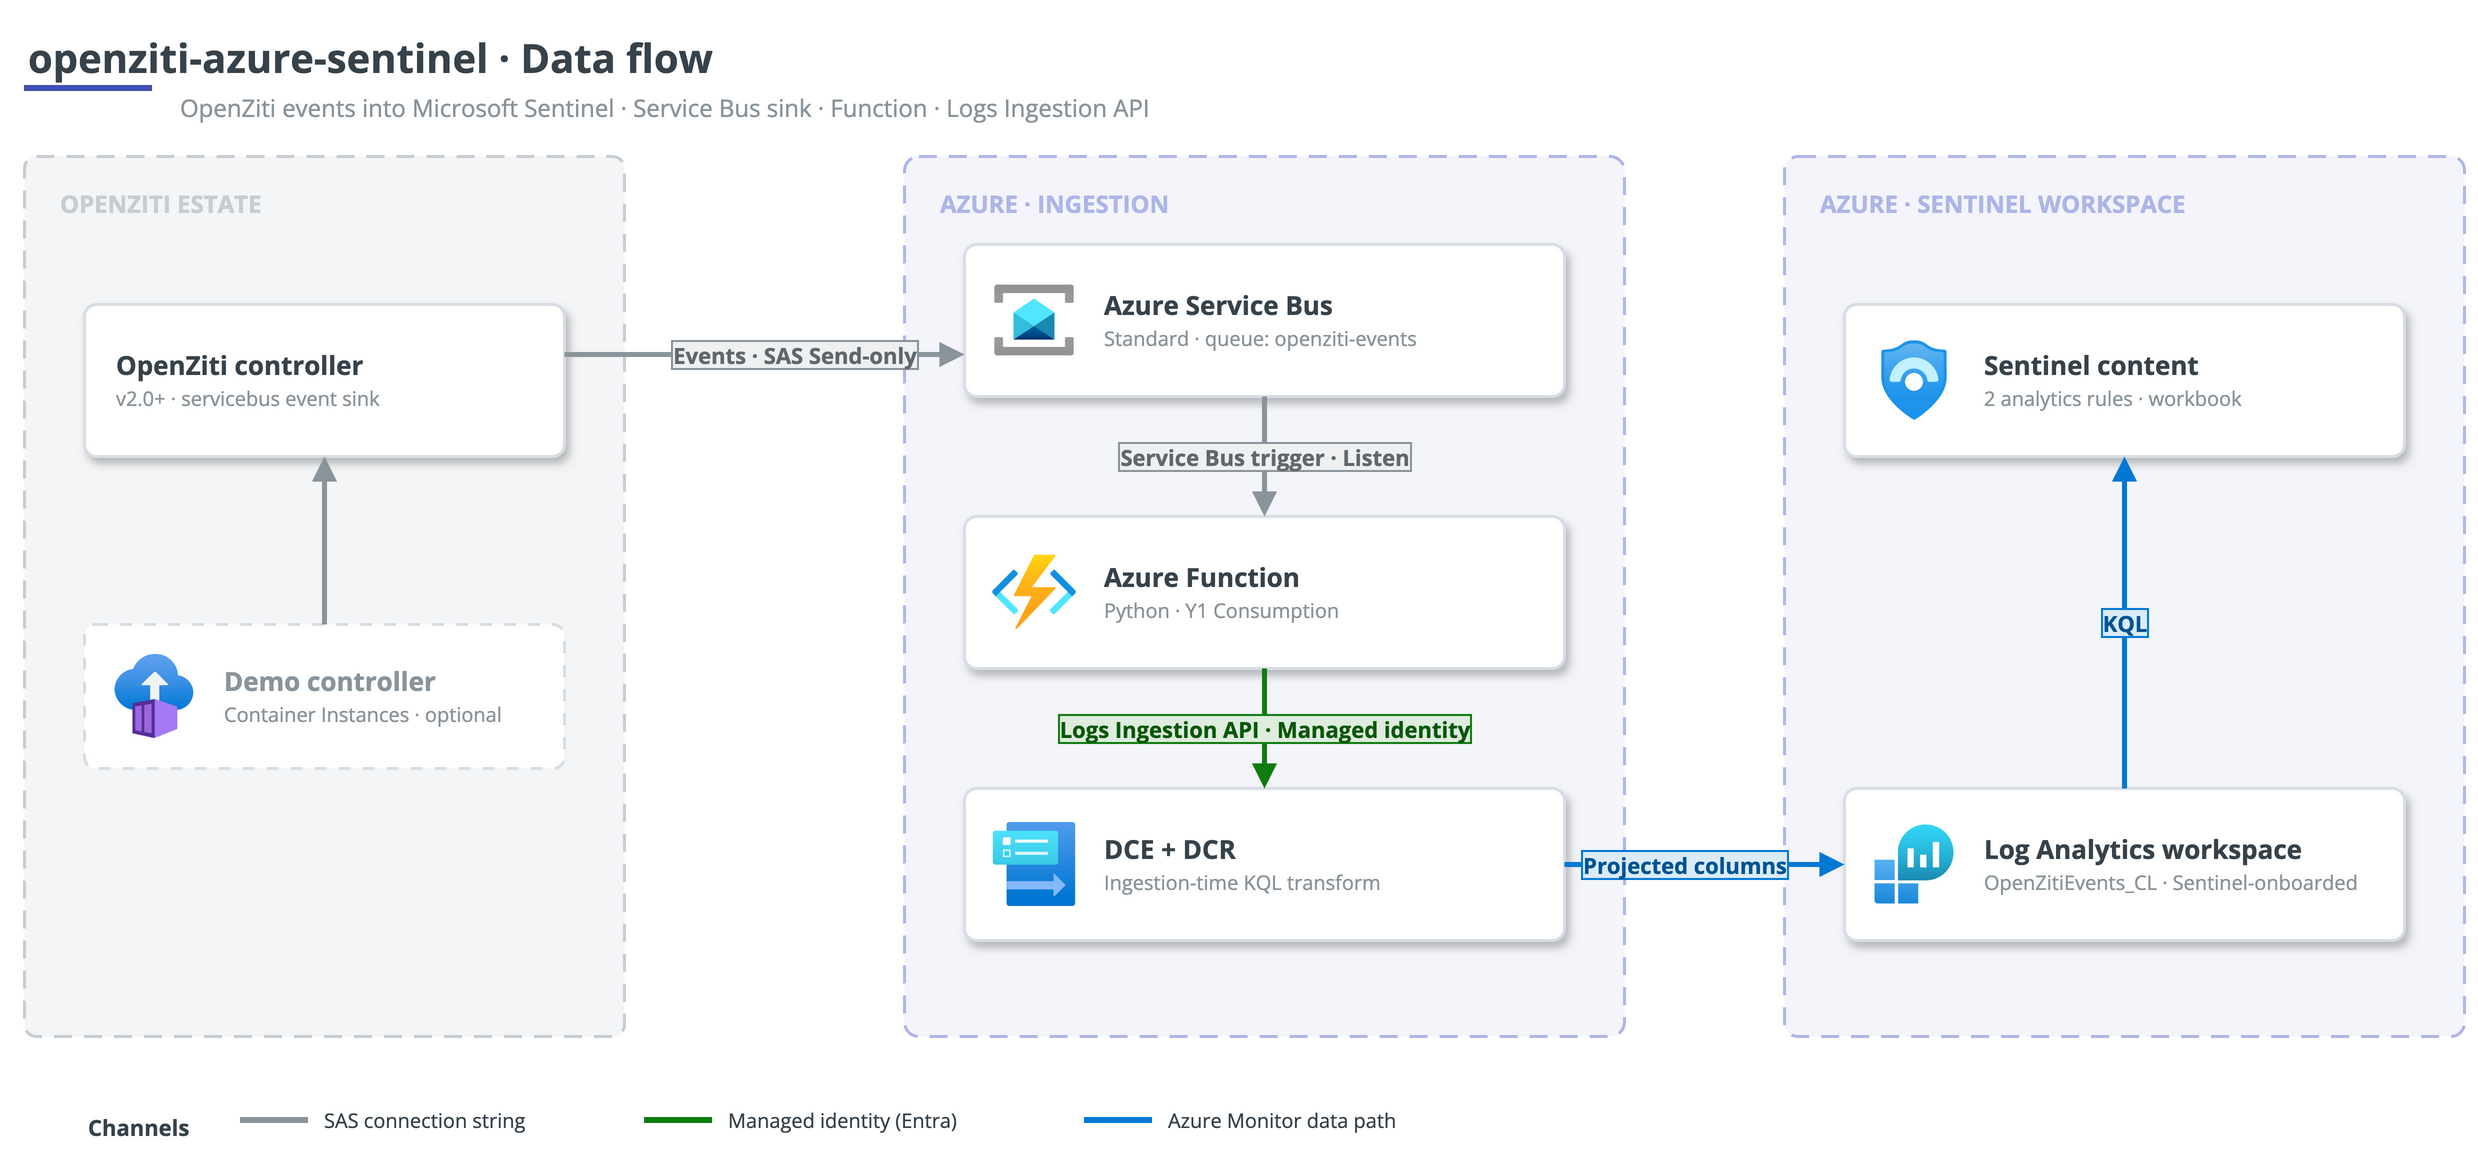
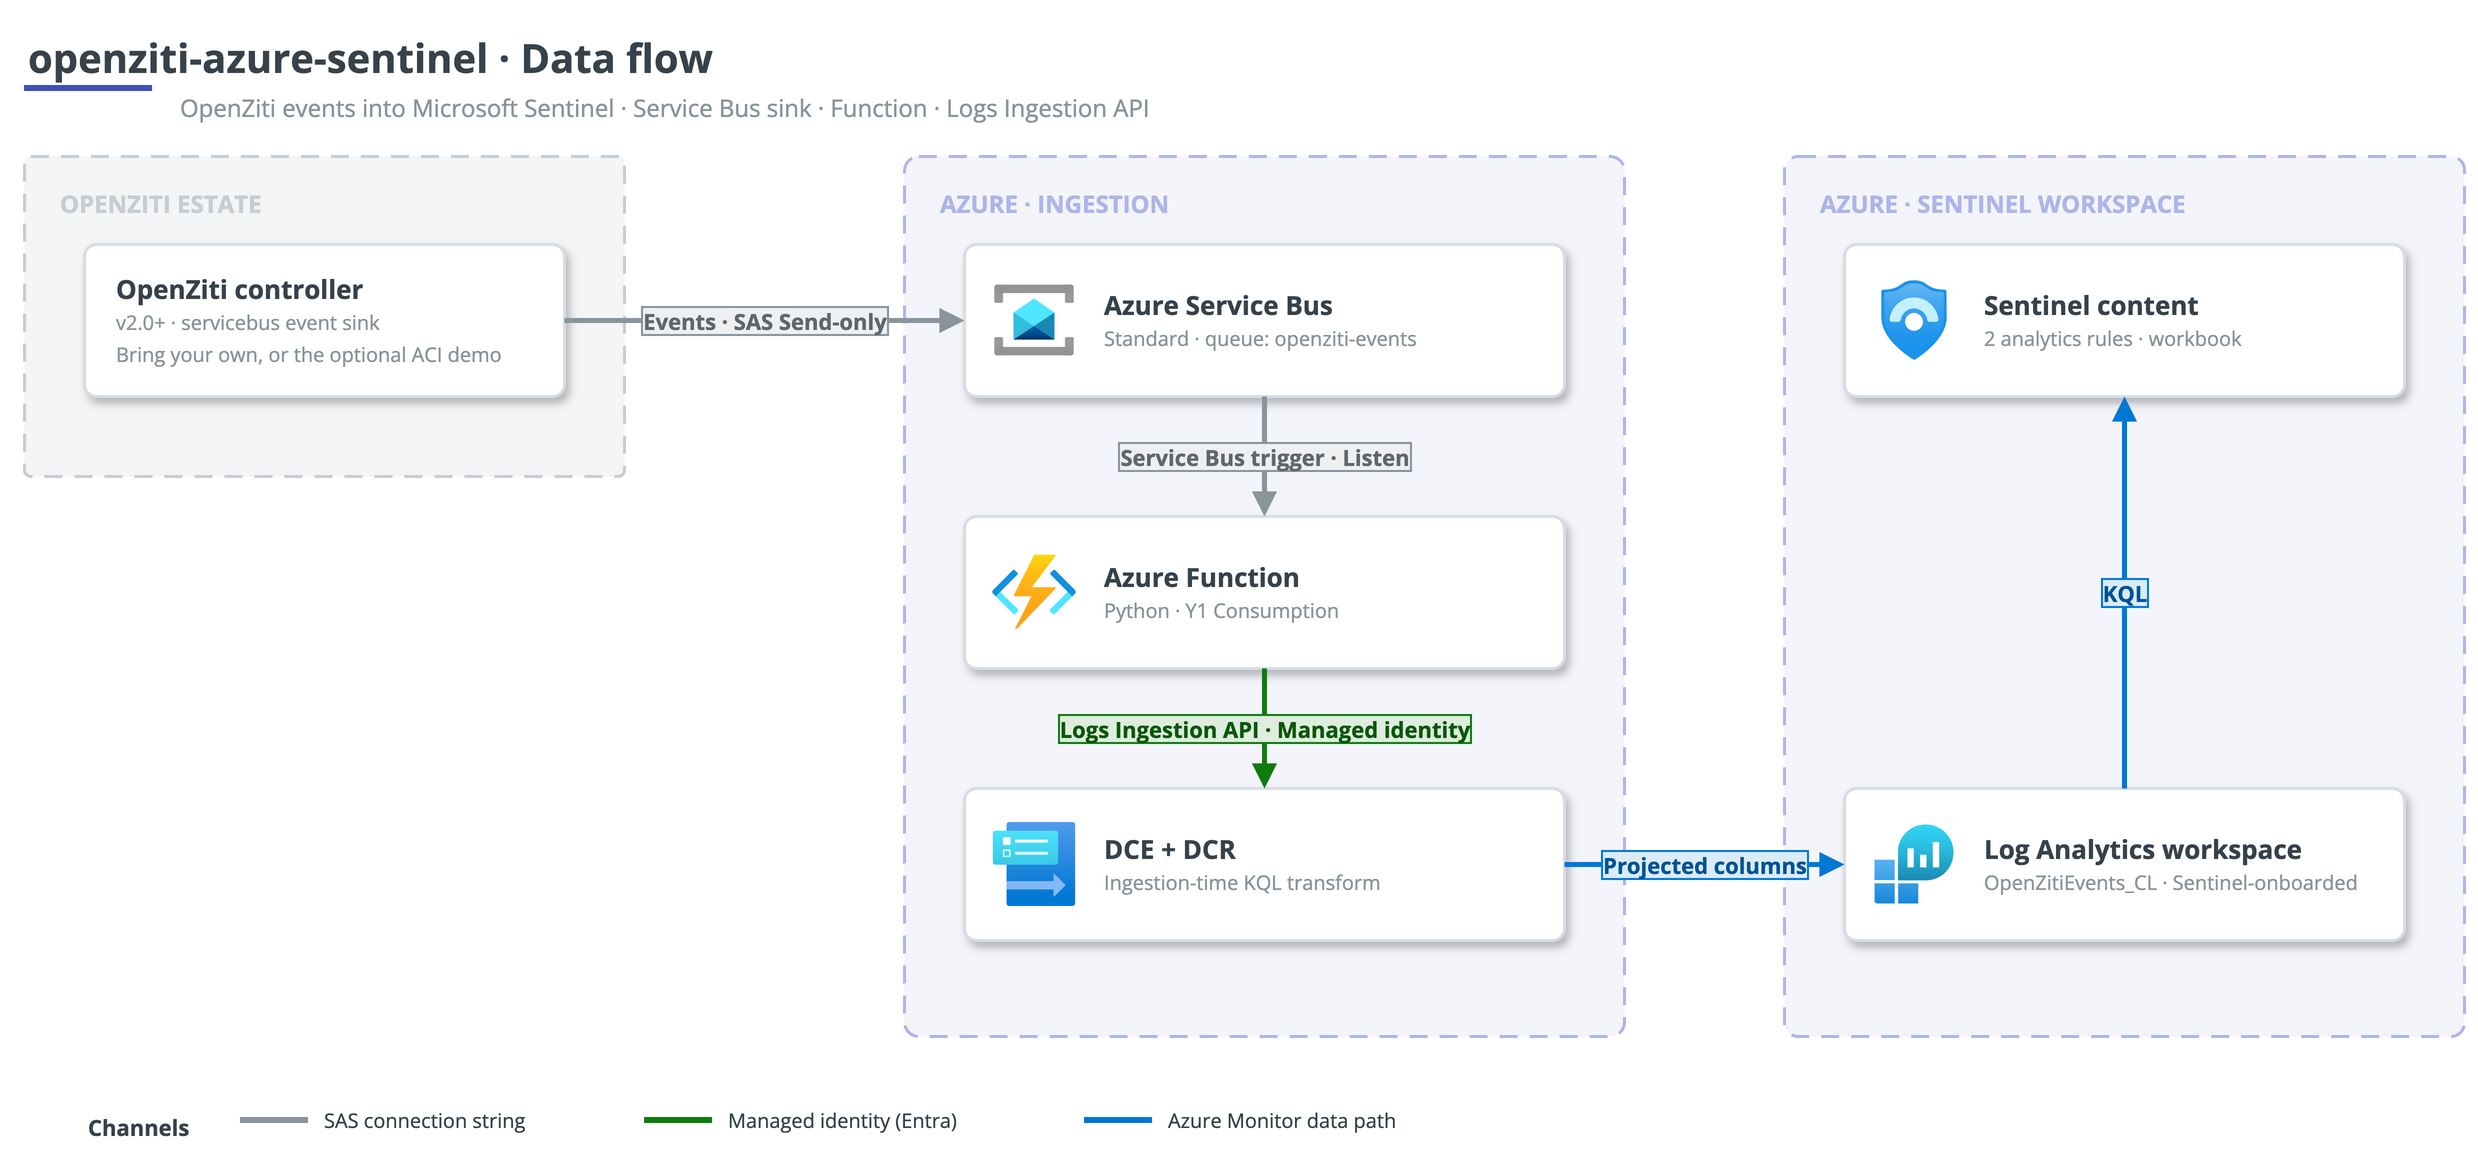
docs: align figure rows, fold demo controller into the controller card
The demo deployment is not a separate component - deploy_demo_controller
stands up the same OpenZiti controller on ACI. Represent it as a sub-line
on the controller card instead of a ghost card feeding it. Snap all cards
to a three-row grid (y=140/276/412) so every edge is one straight run and
the zones read as aligned columns.

Claude-Session: https://claude.ai/code/session_01PYqtjNQenbTQ3nGMfCkX4V

diff --git a/diagrams/build_diagram.py b/diagrams/build_diagram.py
@@ -208,15 +208,17 @@ def data_flow():
         "Logs Ingestion API",
     )
 
-    d.zone(40, 96, 300, 440, "OPENZITI ESTATE", EGRESS_FILL, EGRESS_BORD)
+    # one row grid: cards sit on rows y=140 / 276 / 412 so every edge is a
+    # single straight run and the three zones read as aligned columns
+    d.zone(40, 96, 300, 160, "OPENZITI ESTATE", EGRESS_FILL, EGRESS_BORD)
     d.zone(480, 96, 360, 440, "AZURE  ·  INGESTION", ZONE_FILL, ZONE_BORD)
     d.zone(920, 96, 340, 440, "AZURE  ·  SENTINEL WORKSPACE", ZONE_FILL, ZONE_BORD)
 
-    ctrl = d.card(70, 170, 240, 76, "OpenZiti controller",
-                  sub="v2.0+  ·  servicebus event sink")
-    demo = d.card(70, 330, 240, 72, "Demo controller", icon="aci",
-                  sub="Container Instances  ·  optional", font_color=GREY, shadow=False,
-                  dashed=True)
+    # the demo deployment IS the controller (deploy_demo_controller stands one
+    # up on ACI) - a sub-line, not a second component
+    ctrl = d.card(70, 140, 240, 76, "OpenZiti controller",
+                  sub="v2.0+  ·  servicebus event sink<br>"
+                      "Bring your own, or the optional ACI demo")
 
     sb = d.card(510, 140, 300, 76, "Azure Service Bus", icon="servicebus",
                 sub="Standard  ·  queue: openziti-events")
@@ -225,24 +227,22 @@ def data_flow():
     dcr = d.card(510, 412, 300, 76, "DCE + DCR", icon="dcr",
                  sub="Ingestion-time KQL transform")
 
-    rules = d.card(950, 170, 280, 76, "Sentinel content", icon="sentinel",
+    rules = d.card(950, 140, 280, 76, "Sentinel content", icon="sentinel",
                    sub="2 analytics rules  ·  workbook")
     law = d.card(950, 412, 280, 76, "Log Analytics workspace", icon="loganalytics",
                  sub="OpenZitiEvents_CL  ·  Sentinel-onboarded")
 
-    # the ghost demo card is one possible controller - tie it to the real one
-    d.edge(demo, ctrl, NEUTRAL, "", exit_xy=(0.5, 0), entry_xy=(0.5, 1))
-    # ctrl (y 170..246) -> sb (y 140..216): straight run at y=195
-    d.edge(ctrl, sb, NEUTRAL, "Events  ·  SAS Send-only", tag=True, label_pos=0.15,
-           exit_xy=(1, (195 - 170) / 76), entry_xy=(0, (195 - 140) / 76))
+    # ctrl and sb share row y=140, so mid-height anchors give a straight run
+    d.edge(ctrl, sb, NEUTRAL, "Events  ·  SAS Send-only", tag=True,
+           exit_xy=(1, 0.5), entry_xy=(0, 0.5))
     # vertical in-zone hops: tags mask the line under the label (craft rule -
     # a plain label on a vertical run has the line strike through its text)
     d.edge(sb, fn, NEUTRAL, "Service Bus trigger  ·  Listen", tag=True,
            exit_xy=(0.5, 1), entry_xy=(0.5, 0))
     d.edge(fn, dcr, GREEN, "Logs Ingestion API  ·  Managed identity", tag=True,
            exit_xy=(0.5, 1), entry_xy=(0.5, 0))
-    # dcr (y 412..488) -> law (y 412..488): straight run at mid-height
-    d.edge(dcr, law, AZURE, "Projected columns", tag=True, label_pos=-0.15,
+    # dcr and law share row y=412: straight run at mid-height
+    d.edge(dcr, law, AZURE, "Projected columns", tag=True,
            exit_xy=(1, 0.5), entry_xy=(0, 0.5))
     d.edge(law, rules, AZURE, "KQL", tag=True, exit_xy=(0.5, 0), entry_xy=(0.5, 1))
 

diff --git a/diagrams/make_icons.py b/diagrams/make_icons.py
@@ -43,7 +43,6 @@ WANT = {
     "dcr": ["01857-icon-service-Data-Collection-Rules.svg", "00001-icon-service-Monitor.svg"],
     "loganalytics": ["00009-icon-service-Log-Analytics-Workspaces.svg"],
     "sentinel": ["10248-icon-service-Azure-Sentinel.svg", "Sentinel"],
-    "aci": ["10104-icon-service-Container-Instances.svg"],
 }
 
 